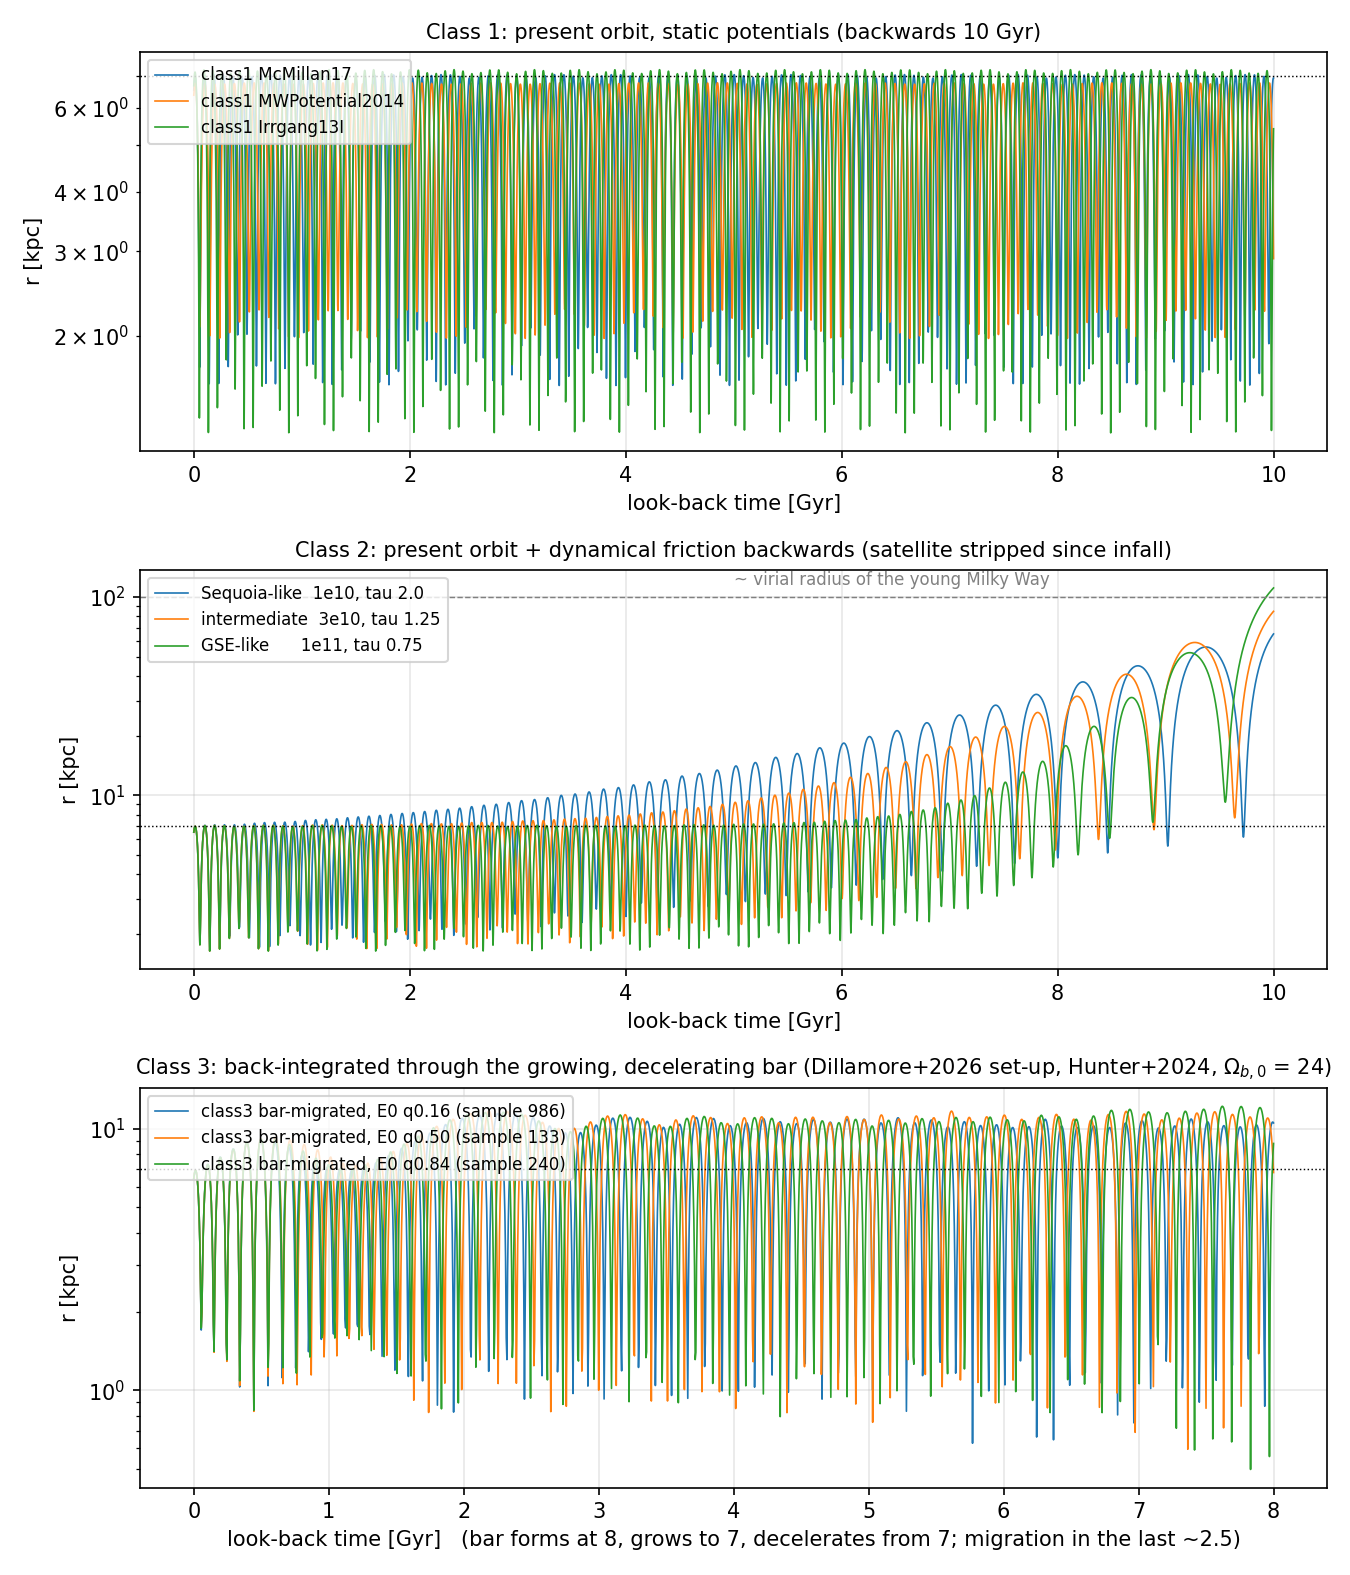
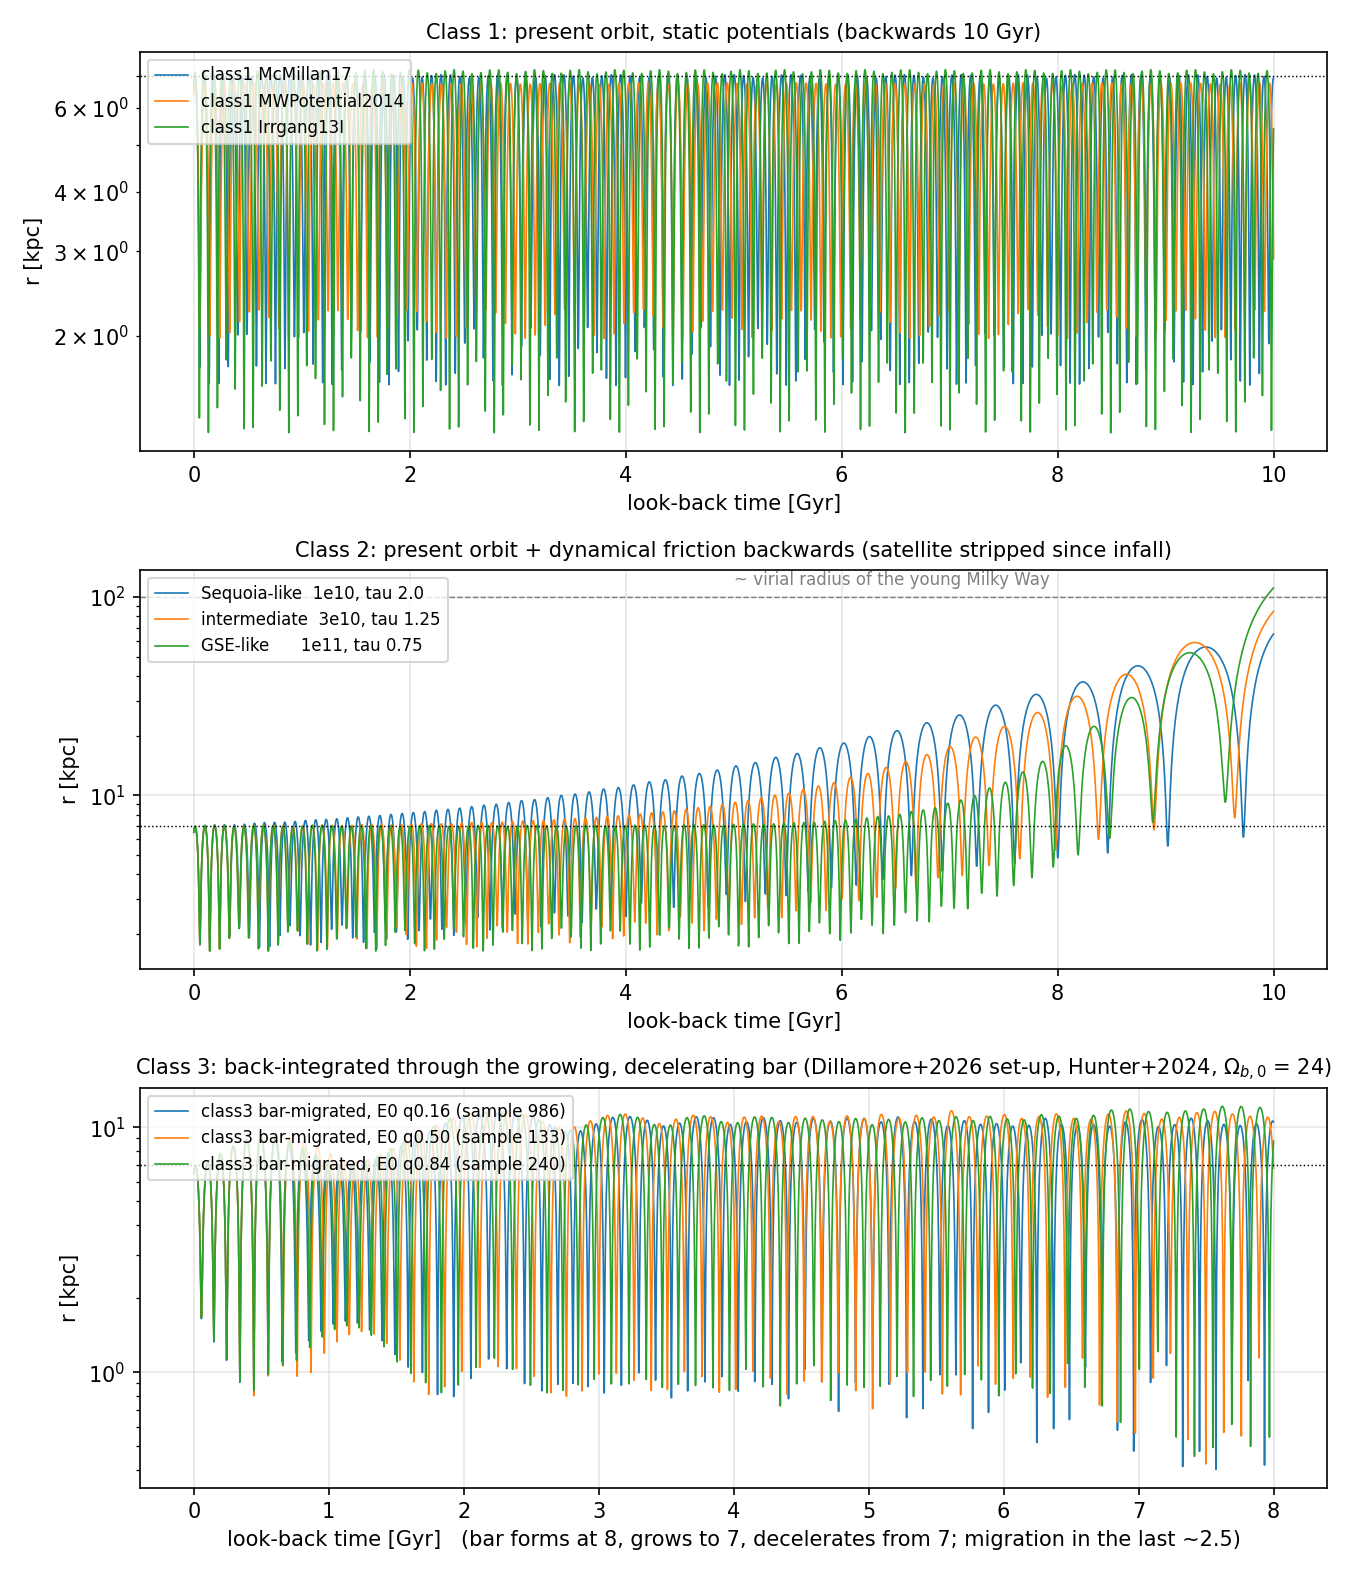
Class 3: resolve pericentres with a fine re-integration of the picked samples; fix test

Changed region(s): [[0.1244, 0.6844, 0.9644, 0.9333], [0.0622, 0.8711, 0.0933, 0.9022]]

diff --git a/src/ocen_dm/tails/bar_migration.py b/src/ocen_dm/tails/bar_migration.py
@@ -175,6 +175,7 @@ class MigrationRun:
     E: np.ndarray                 # (n_times, n_samples) in the axisymmetric potential
     Lz: np.ndarray
     inside_t0: np.ndarray         # bool per sample: inside outer GSE contour at t = 0
+    ic: np.ndarray = None         # (n_samples, 6) present-day initial conditions (bar frame)
 
     @property
     def frac_inside(self) -> float:
@@ -196,7 +197,17 @@ def back_integrate(omega_f: float, n_samples: int = 1000, seed: int = 42, n_time
         E[j], Lz[j] = energy_lz(traj[j], pot_axi)
     cont = gse_contours(pot_axi)
     inside = inside_gse(E[0], Lz[0], cont, level=0)
-    return MigrationRun(omega_f, hist, t, traj, E, Lz, inside)
+    return MigrationRun(omega_f, hist, t, traj, E, Lz, inside, ic)
+
+
+def refine_trajectory(run: MigrationRun, i: int, n_times: int = 32001):
+    """Re-integrate sample ``i`` alone with fine output (0.25 Myr for tf = 8 Gyr), so that
+    pericentre passages (~1 Myr long at 0.5 kpc) are resolved. Returns (t ascending, traj)."""
+    agama = _agama()
+    pot, _ = slowing_bar_potential(run.hist)
+    t, tr = agama.orbit(ic=run.ic[i], potential=pot, timestart=run.hist.tf, time=-run.hist.tf, trajsize=n_times)
+    order = np.argsort(t)
+    return np.asarray(t)[order], np.asarray(tr)[order]
 
 
 # ----------------------------------------------------------------------------- grid, picks, products
@@ -218,9 +229,10 @@ def orbit_elements(traj_1, t, t_lo, t_hi):
                 z_max=float(np.abs(traj_1[m, 2]).max()))
 
 
-def pick_class3(run: MigrationRun, quantiles=(0.16, 0.5, 0.84)):
+def pick_class3(run: MigrationRun, quantiles=(0.16, 0.5, 0.84), refine: bool = True):
     """Among samples inside the GSE contour at t = 0, the ones at the given quantiles of E(t=0).
-    Returns list of (sample index, elements at 0-1 Gyr, elements at 7-8 Gyr, E0, Lz0)."""
+    Returns list of dicts (sample index, fine trajectory, elements at 0-1 Gyr and in the last
+    Gyr, E0, Lz0). Elements come from a 0.25-Myr re-integration when ``refine`` is set."""
     idx = np.flatnonzero(run.inside_t0)
     if idx.size == 0:
         return []
@@ -229,9 +241,10 @@ def pick_class3(run: MigrationRun, quantiles=(0.16, 0.5, 0.84)):
     for q in quantiles:
         target = np.quantile(E0, q)
         i = idx[np.argmin(np.abs(E0 - target))]
-        picks.append(dict(sample=int(i), q=q, E0=float(run.E[0, i]), Lz0=float(run.Lz[0, i]),
-                          early=orbit_elements(run.traj[:, i], run.t, 0.0, 1.0),
-                          late=orbit_elements(run.traj[:, i], run.t, run.hist.tf - 1.0, run.hist.tf)))
+        t, tr = refine_trajectory(run, i) if refine else (run.t, run.traj[:, i])
+        picks.append(dict(sample=int(i), q=q, E0=float(run.E[0, i]), Lz0=float(run.Lz[0, i]), t=t, traj=tr,
+                          early=orbit_elements(tr, t, 0.0, 1.0),
+                          late=orbit_elements(tr, t, run.hist.tf - 1.0, run.hist.tf)))
     return picks
 
 
@@ -244,7 +257,7 @@ def build_products(out_dir: Path = Path("results/tails"), plot_dir: Path = Path(
     runs = run_grid(omegas, n_samples=n_samples, seed=seed, n_times=161)
     pot_axi = axisymmetric_potential()
     cont = gse_contours(pot_axi)
-    fid = back_integrate(OMEGA_FIDUCIAL, n_samples=n_samples, seed=seed, n_times=1601)
+    fid = back_integrate(OMEGA_FIDUCIAL, n_samples=n_samples, seed=seed, n_times=161)
     picks = pick_class3(fid)
     E_now, Lz_now = energy_lz(present_day_samples(1), pot_axi)
 
@@ -290,10 +303,10 @@ def build_products(out_dir: Path = Path("results/tails"), plot_dir: Path = Path(
     fig, axes = plt.subplots(3, 1, figsize=(9, 10), sharex=True)
     lb = fid.hist.tf - fid.t     # look-back time
     for p in picks:
-        i = p["sample"]; r = np.linalg.norm(fid.traj[:, i, :3], axis=1)
+        i = p["sample"]; r = np.linalg.norm(p["traj"][:, :3], axis=1); lbp = fid.hist.tf - p["t"]
         lab = "sample %d (E0 quantile %.2f): early peri/apo %.1f/%.1f -> late %.1f/%.1f" % (
             i, p["q"], p["early"]["r_peri"], p["early"]["r_apo"], p["late"]["r_peri"], p["late"]["r_apo"])
-        axes[0].plot(lb, r, lw=0.6, label=lab)
+        axes[0].plot(lbp, r, lw=0.4, label=lab)
         axes[1].plot(lb, fid.E[:, i] / 1e5, lw=0.8)
         axes[2].plot(lb, fid.Lz[:, i], lw=0.8)
     axes[0].set_yscale("log"); axes[0].set_ylabel("r [kpc]"); axes[0].legend(fontsize=7, loc="upper left")

diff --git a/src/ocen_dm/tails/progenitor_orbits.py b/src/ocen_dm/tails/progenitor_orbits.py
@@ -338,7 +338,7 @@ def class3_gse_debris_orbit(r_apo_kpc: float, lz_kpc_kms: float, incl_deg: float
 
 
 def class3_bar_migration_orbits(omega_b: float = CLASS3_OMEGA_B, n_samples: int = 1000,
-                                seed: int = 42, n_times: int = 1601) -> list:
+                                seed: int = 42, n_times: int = 161) -> list:
     """Class 3 done properly: omega Cen's phase-space samples integrated back 8 Gyr through the
     growing, decelerating bar of Dillamore et al. (2026); the three samples at the 16/50/84th
     percentiles of E(t=0) among those ending inside the GSE debris contours. Time axis of the
@@ -346,9 +346,9 @@ def class3_bar_migration_orbits(omega_b: float = CLASS3_OMEGA_B, n_samples: int 
     from . import bar_migration as bm
     run = bm.back_integrate(omega_b, n_samples=n_samples, seed=seed, n_times=n_times)
     out = []
-    for p in bm.pick_class3(run):
-        i = p["sample"]; X = run.traj[:, i, :3]; V = run.traj[:, i, 3:]
-        lb = run.t - run.hist.tf                       # 0 today, -8 at bar formation
+    for p in bm.pick_class3(run):                      # fine (0.25 Myr) re-integration of each pick
+        i = p["sample"]; X = p["traj"][:, :3]; V = p["traj"][:, 3:]
+        lb = p["t"] - run.hist.tf                      # 0 today, -8 at bar formation
         R = np.hypot(X[:, 0], X[:, 1]); phi = np.arctan2(X[:, 1], X[:, 0])
         vR = V[:, 0] * np.cos(phi) + V[:, 1] * np.sin(phi)
         vT = -V[:, 0] * np.sin(phi) + V[:, 1] * np.cos(phi)     # oCen_bar frame: disc L_z > 0

diff --git a/tests/test_progenitor_orbits.py b/tests/test_progenitor_orbits.py
@@ -55,7 +55,7 @@ def test_class3_bar_migration_orbits_are_gse_like_before_migration():
     bm = pytest.importorskip("ocen_dm.tails.bar_migration")
     if not bm.POT_DIR.exists():
         pytest.skip("oCen_bar clone not found")
-    orbs = po.class3_bar_migration_orbits(n_samples=200, n_times=401)
+    orbs = po.class3_bar_migration_orbits(n_samples=200, n_times=41)
     assert len(orbs) == 3
     for o in orbs:
         assert abs(o.t_gyr[0]) < 1e-9 and abs(o.t_gyr[-1] + 8.0) < 1e-9      # look-back axis, 0 today first

diff --git a/docs/PROGENITOR_ORBITS.md b/docs/PROGENITOR_ORBITS.md
@@ -147,12 +147,14 @@ Dillamore, Zhang & Belokurov 2026 (arXiv:2606.12516), following the authors' own
 
 | sample | E(t=0) [10⁵] | L_z(t=0) | pre-migration (7–8 Gyr ago) peri / apo / e / z_max | last Gyr peri / apo |
 |---|---|---|---|---|
-| 986 | −1.301 | +69 | 0.87 / 10.9 / 0.85 / 4.8 | 0.84 / 9.0 |
-| 133 | −1.265 | +163 | 0.60 / 11.6 / 0.90 / 4.9 | 0.83 / 9.3 |
-| 240 | −1.233 | +229 | 0.50 / 12.2 / 0.92 / 5.2 | 0.84 / 9.1 |
+| 986 | −1.301 | +69 | 0.40 / 10.9 / 0.93 / 4.8 | 0.84 / 9.1 |
+| 133 | −1.265 | +163 | 0.42 / 11.6 / 0.93 / 4.9 | 0.80 / 9.3 |
+| 240 | −1.233 | +229 | 0.45 / 12.2 / 0.93 / 5.2 | 0.84 / 9.1 |
 
-(L_z prograde-positive.) The pre-migration orbit is a **most-bound GSE-debris orbit**: apocentre
-11–12 kpc, pericentre 0.5–0.9 kpc, slightly prograde to zero L_z — not retrograde. The earlier
+(L_z prograde-positive; elements from a 0.25-Myr re-integration of each picked sample — the
+20-Myr grid cadence overestimates pericentres by up to a factor 2.) The pre-migration orbit is a
+**most-bound GSE-debris orbit**: apocentre 11–12 kpc, pericentre 0.4–0.45 kpc, e = 0.93,
+slightly prograde to zero L_z — not retrograde. The earlier
 static guess (L_z = −300) was wrong in sign and is kept only as `class3_gse_debris_orbit`.
 
 ### What is still not modelled
@@ -173,7 +175,7 @@ static guess (L_z = −300) was wrong in sign and is kept only as `class3_gse_de
 |---|---|---|---|
 | class 1 | today's | today's | 1.3–2.0 kpc |
 | class 2 | wider, apo 10–20 kpc at 5 Gyr, infall from R_vir | today's | 1.6–2.9 kpc early |
-| class 3 | most-bound GSE debris, apo 11–12 kpc, L_z ≈ 0 to +230, until ~2.5 Gyr ago | today's, reached by bar migration in the last ~2.5 Gyr | 0.5–0.9 kpc |
+| class 3 | most-bound GSE debris, apo 11–12 kpc, L_z ≈ 0 to +230, until ~2.5 Gyr ago | today's, reached by bar migration in the last ~2.5 Gyr | 0.4–0.45 kpc (0.8 in the barred potential today) |
 
 ## Caveats
 

diff --git a/JOURNAL.md b/JOURNAL.md
@@ -3784,8 +3784,13 @@ authors' stored grid (0.87 / 0.69 / 0.08 at 24 / 25 / 26, dip at 23 too) and is 
 jagged Omega dependence is resonant-phase sensitivity. Paper's "Omega_b,0 <~ 26" reproduced.
 Migration is late: E, L_z sit at GSE values from 8 to ~2.5 Gyr ago and move only in the last
 ~2.5 Gyr. Picked (Omega_b,0 = 24, E0 quantiles 0.16/0.5/0.84 among successful samples):
-pre-migration peri/apo 0.87/10.9, 0.60/11.6, 0.50/12.2 kpc, e 0.85-0.92, L_z(t=0) = +69, +163,
-+229 (slightly prograde, not retrograde as guessed).
+pre-migration peri/apo 0.40/10.9, 0.42/11.6, 0.45/12.2 kpc, e 0.93, L_z(t=0) = +69, +163,
++229 (slightly prograde, not retrograde as guessed). Pericentres need the 0.25-Myr
+re-integration (`refine_trajectory`): the 20-Myr grid cadence gave 0.5-0.9 kpc, up to 2x too
+large, because a pericentre passage at 0.4 kpc lasts ~1 Myr.
+
+Lesson re-learnt: `pytest ... | tail -1` hid a failing test and the previous commit (d7c49be)
+went in with 1 failure; fixed here and the chain now uses `set -o pipefail`.
 
 Side result relevant to every class: in the barred Hunter24 potential at Omega_b,0 = 24
 (corotation ~9.5 kpc) omega Cen's present orbit has peri/apo 0.81/9.3 kpc over the last Gyr,
